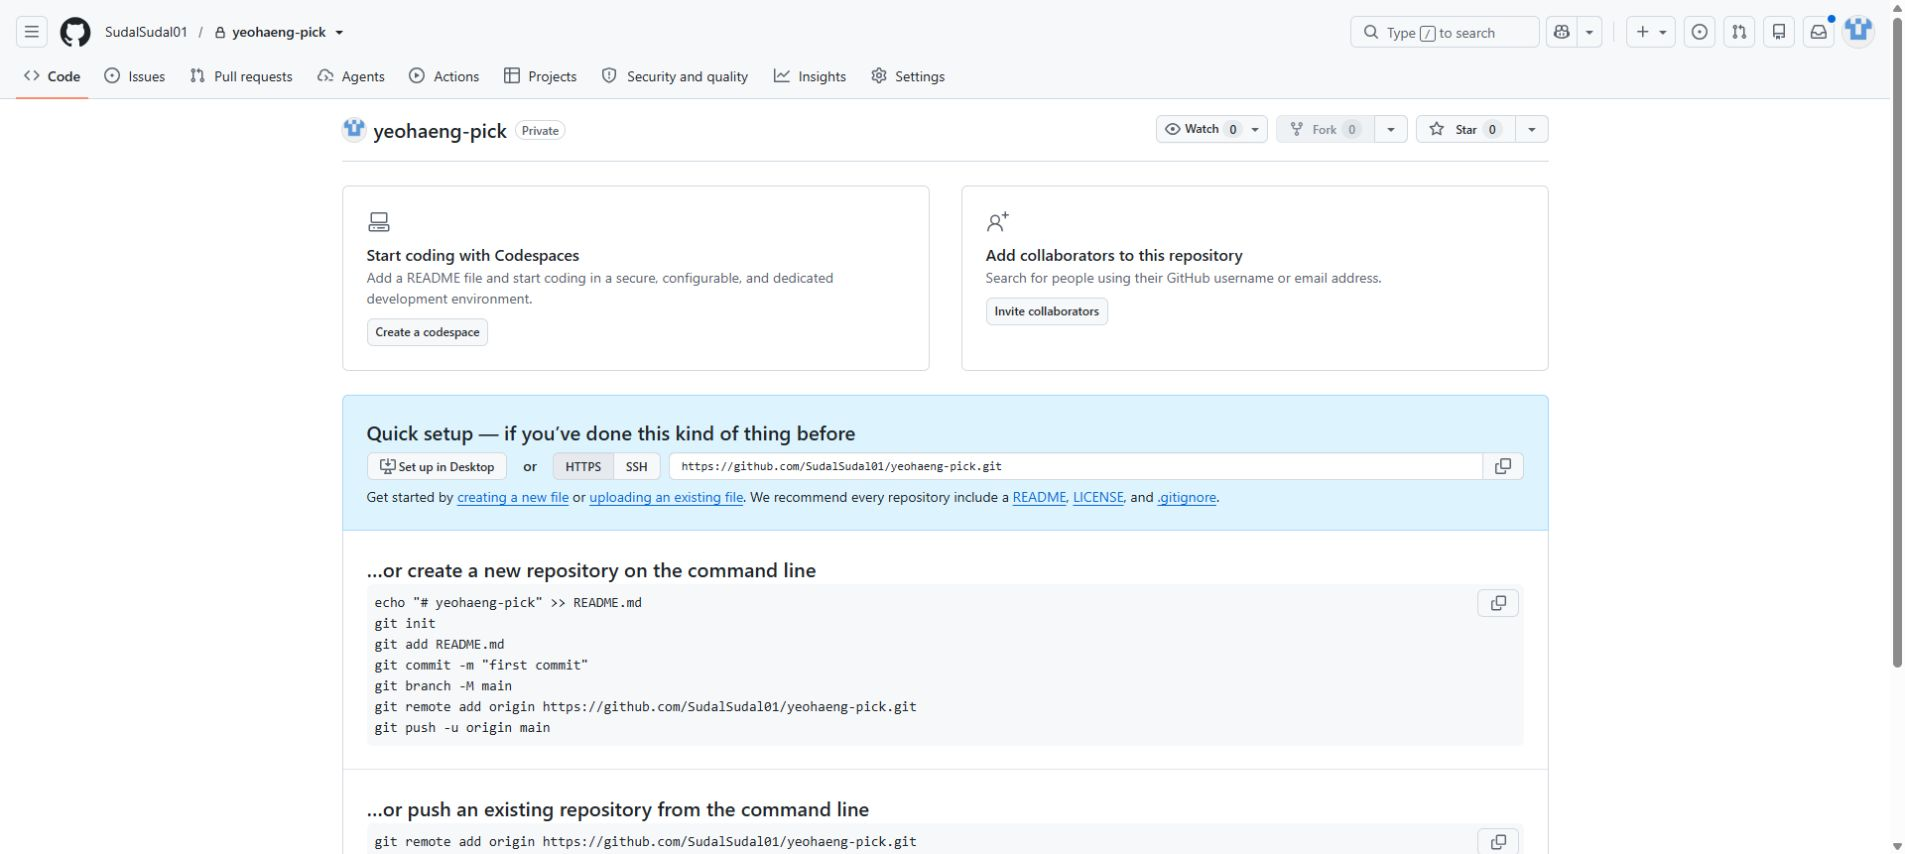
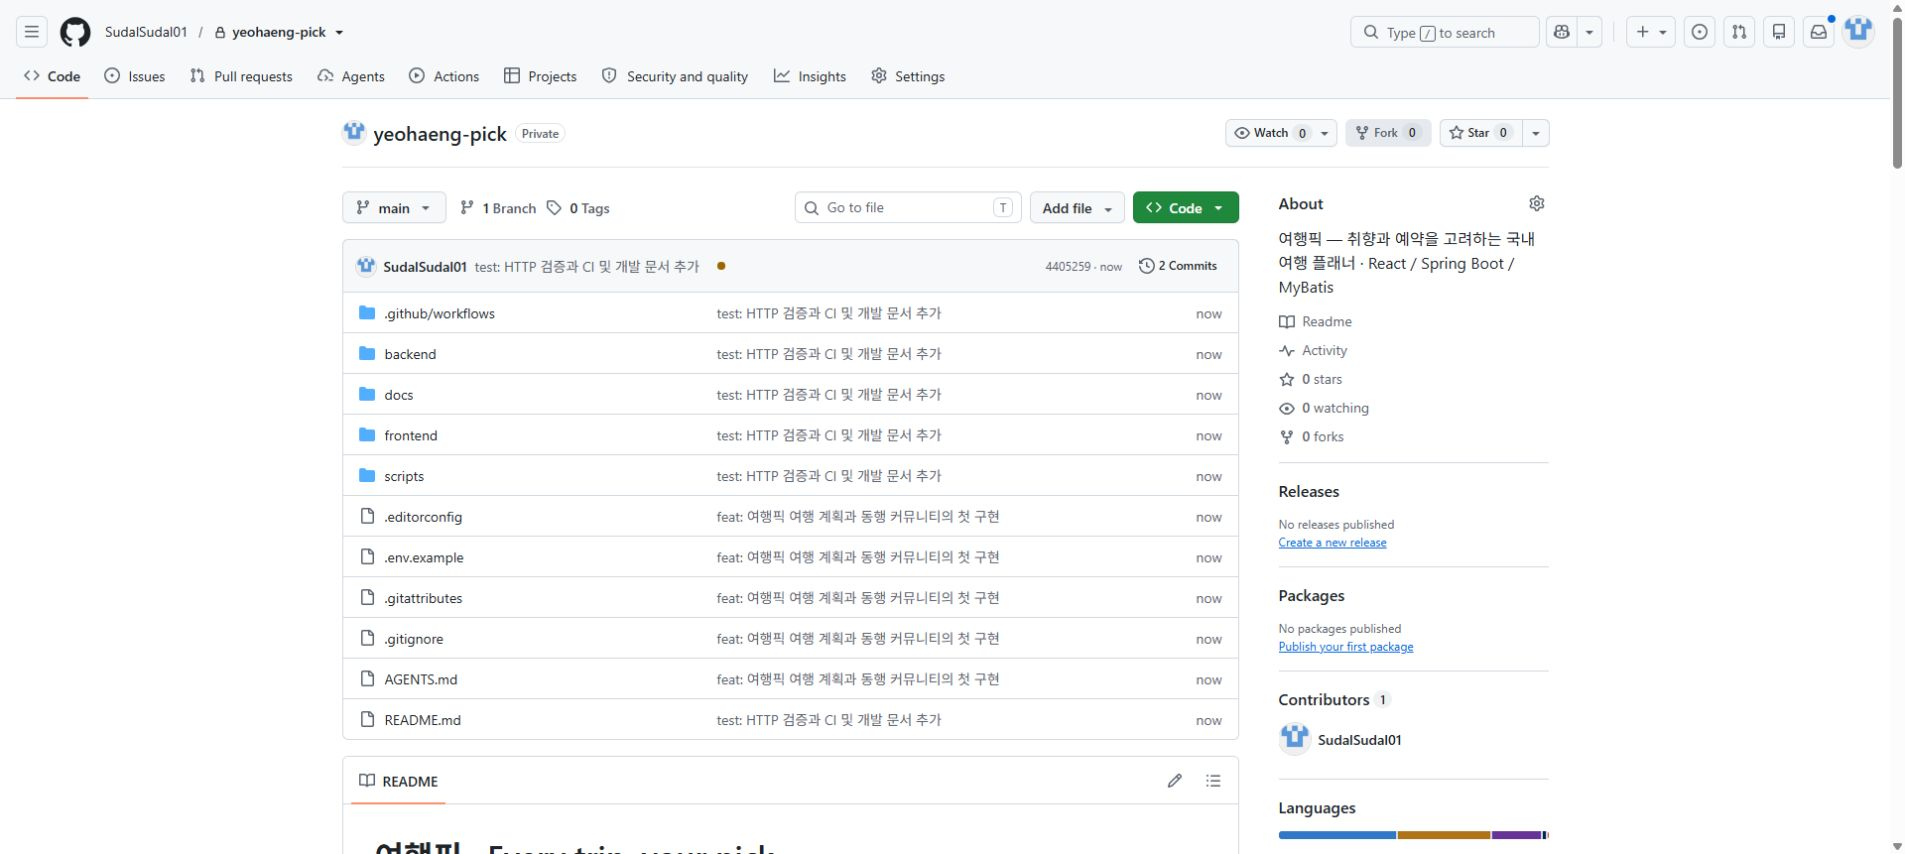
fix: 예산의 미확인 비용 안내와 CI 실행 환경 보완

diff --git a/frontend/src/features/trips/TripDialogs.tsx b/frontend/src/features/trips/TripDialogs.tsx
@@ -139,8 +139,9 @@ export function ComparisonModal({
               {comparison.data.estimatedCost + lodgingEstimate(trip) >
               trip.budget
                 ? " · 설정한 예산을 초과해요."
-                : " · 설정한 예산 이내예요."}{" "}
-              실제 객실 요금과 교통비는 별도 확인이 필요해요.
+                : " · 현재 합산 금액은 예산 이내예요."}{" "}
+              실제 객실 요금과 교통비는 별도 확인이 필요해요. 미확인 장소 비용과
+              미선택 숙소 비용은 포함하지 않았어요.
             </p>
             {comparison.data.conflicts.map((c) => (
               <p className="field-error" key={c}>

diff --git a/frontend/src/features/trips/TripPage.tsx b/frontend/src/features/trips/TripPage.tsx
@@ -232,7 +232,8 @@ export default function TripPage() {
               ? `예산보다 ${money(plannedEstimate - trip.budget)} 높아요. 후보의 비용과 장점을 비교해 선택해 주세요. `
               : "현재 선택한 후보의 참고 금액이에요. "}
             숙박비 {money(stayEstimate)}는 지역별 1객실 기준이에요. 실제 객실
-            가격·객실 수, 왕복 및 지역 간 교통비는 추가 확인이 필요해요.
+            가격·객실 수, 왕복 및 지역 간 교통비는 추가 확인이 필요해요. 미확인
+            장소 비용과 아직 선택하지 않은 숙소 비용은 합계에서 제외돼요.
           </p>
         </div>
       </div>

diff --git a/docs/verification.md b/docs/verification.md
@@ -42,4 +42,6 @@ Codex 브라우저에서 화면을 직접 조작했습니다. 화면 캡처는 `
 - PostgreSQL 및 HTTPS 배포, 다중 서버의 세션/요청 제한, 동시 요청 부하
 - 실제 iOS Safari/Android 기기, 보조기술 전체, 공식 접근성 적합성
 
-GitHub Actions는 Java 21/Node 24에서 같은 빌드와 테스트를 수행하도록 설정했습니다. 로컬 통과와 원격 CI 결과는 별도로 확인해야 합니다. 운영 출시를 위한 후속 항목은 [기능 상태표](status.md)에 기록했습니다.
+GitHub Actions의 [첫 실행](https://github.com/SudalSudal01/yeohaeng-pick/actions/runs/38163042394)은 Java 21/Node 24에서 서버 검증·프론트 테스트·포맷·빌드 모두 성공했습니다(커밋 `4405259`, 1분 24초). 실행 시 나온 기존 액션의 지원 종료 경고를 반영해 [checkout](https://github.com/actions/checkout), [setup-java](https://github.com/actions/setup-java), [setup-node](https://github.com/actions/setup-node)의 공식 버전을 확인하고 커밋 SHA로 고정했습니다. 이후 실행 결과는 저장소 Actions에서 확인할 수 있습니다.
+
+시작/종료 스크립트로 여행픽의 두 포트가 실제로 닫히고 다시 열리는 것, 기록한 PID가 실제 리스너와 일치하는 것도 확인했습니다. 로컬 DB는 유지됩니다. 운영 출시를 위한 후속 항목은 [기능 상태표](status.md)에 기록했습니다.
